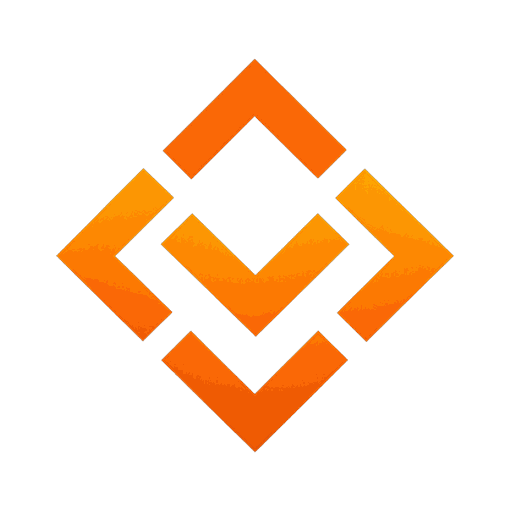
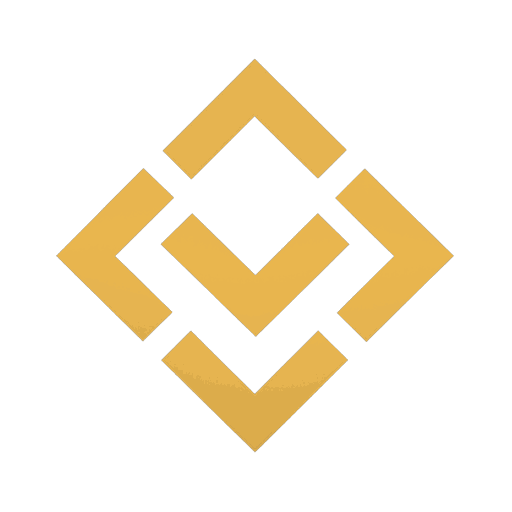
fix: Madarek parity completion — gold raster identity, prefers-contrast, full 9-family tokenization, canonical ring/radius/status
- Recolor all 11 flame-orange rasters to the Madarek night/gold identity
  (logo.png nav/footer, favicon-32, apple-touch-icon, icon-96/192/512,
  icon-512-maskable, multi-size favicon.ico, og-smartlink.jpg + product
  screenshots smart-bot/smart-menu.jpg) — verified 0 flame pixels remain
  (bright saturated hue 8-45deg window; legal gold/copper/peach all s<=0.78)
- Port prefers-contrast: more from madarek tokens.css L964-1005:
  elev-1..5 collapse to solid rings, glass goes solid (--card),
  borders strengthen — adapted to this repo's token names/structure
- Complete the 9 pastel families: add sky/yellow/rose/sand/grey triads
  (bg/ink/deep) in both dark :root and .light
- Canonical fixes: dark --ring #C9962F -> #E9B44C (gold); @theme radius
  aliases sm/lg/xl 8/20/28 -> 8/12/16
- Light status: restore canonical base values #4FA66D/#D6A330/#DD6E78
  (+ --info #5C8FCE) with -ink text companions in both themes; contact
  form status TEXT moves to -ink variants (AA in light mode preserved)
- global-error.tsx: #f5f5f7 -> Madarek sand ink #F2EFE6
- hero ambient blob: oklch hue 45 (flame band 43-57) -> gold hue 81

Build: npx next build PASS (13 routes); braces 178/178 balanced; eslint clean

diff --git a/src/app/styles.css b/src/app/styles.css
@@ -156,12 +156,14 @@
   --color-primary: var(--primary);
   --color-primary-text: var(--primary-text);
 
-  /* Radii already sit on the Madarek "Notion-soft" ladder (§1.2):
-     8 = --r-sm · 20 = --r-2xl · 28 = --r-3xl. The full 6/8/10/12/16/
-     20/28 ladder is declared as --r-* in :root below. */
+  /* Radii on the Madarek "Notion-soft" ladder (§1.2), CANONICAL
+     aliases: sm 8 = --r-sm · lg 12 = --r-lg · xl 16 = --r-xl. The full
+     6/8/10/12/16/20/28 ladder is declared as --r-* in :root below; the
+     former 20/28 steps stay reachable as rounded-[20px]/[28px]
+     arbitrary values and via --r-2xl/--r-3xl. */
   --radius-sm: 8px;
-  --radius-lg: 20px;
-  --radius-xl: 28px;
+  --radius-lg: 12px;
+  --radius-xl: 16px;
 
   /* m15: exact Madarek --ease-out (§4.2) — the exponential settle.
      (The pre-existing value 0.2,1 was a near-identical hand-tune.) */
@@ -201,21 +203,32 @@
      backgrounds + icon wells) — the gold at the original 15% wash. */
   --accent: rgb(233 180 76 / 0.15);
   --muted-foreground: #C3C8DC;
-  /* --destructive/--success/--warning = the Madarek -ink status values
-     (§1.6) — these tokens render TEXT, so the fill/stroke values stay
-     out: danger-ink #F0938F etc. The contact form derives its tinted
-     boxes via oklch(from …) so they follow automatically. */
+  /* Status tokens — see the family comment at --success below: base =
+     fill/stroke duty; -ink = text-grade variant. */
   --destructive: #F0938F;
+  --destructive-ink: #F0938F;
   /* r13 (a11y audit 1.4.11) recipe kept: a mixed border clears 3:1 in
      both themes — now mixing Madarek ink + Madarek card. */
   --input-border: color-mix(in oklab, var(--muted-foreground) 70%, var(--card));
   --border: #1B2444;
   --border-strong: #263052;
-  /* --ring = Madarek --state-focus-ring-color = --accent-strong dark
-     (§4.5, 7.87:1). Also tints the feature-card hover hairline. */
-  --ring: #C9962F;
+  /* --ring = Madarek dark focus ring: the gold accent itself #E9B44C
+     (§4.5, 10.39:1 on night — canonical dark value; strong gold #C9962F
+     stays on --accent-strong). Also tints the feature-card hover
+     hairline. */
+  --ring: #E9B44C;
+  /* --destructive/--success/--warning/--info = Madarek status BASE
+     values (§1.6 dark = the family -ink hues). Companions -ink = the
+     canonical text-grade variant (dark: identical to base; light theme
+     carries the family -deep) so small status TEXT keeps AA in both
+     modes while base keeps fill/stroke duty (showcase traffic-light
+     dots, input error border, oklch washes). */
   --success: #7FD39A;
+  --success-ink: #7FD39A;
   --warning: #ECC97D;
+  --warning-ink: #ECC97D;
+  --info: #8FBBF2;
+  --info-ink: #8FBBF2;
 
   /* ── Madarek accent family (§1.5 dark column), exact ── */
   --accent-solid: #E9B44C;
@@ -259,10 +272,18 @@
   --gradient-text-mid: #E9B44C;
   --gradient-text-end: #F5D48A;
 
-  /* ── Pastel section families consumed here (§1.4 dark column) ── */
+  /* ── Pastel section families (§1.4 dark column) — the full canonical
+     9: peach/lavender/mint consumed by service gradients today; sky/
+     yellow/rose/sand/grey ride the same bg/ink/deep triad pattern for
+     section parity with Madarek (status bases resolve to them). ── */
   --c-peach-bg: #2C1A16;  --c-peach-ink: #F2A07F;  --c-peach-deep: #FCD9C4;
   --c-lavender-bg: #221B3A;  --c-lavender-ink: #B7A0F4;  --c-lavender-deep: #DCD2F9;
   --c-mint-bg: #0F241C;  --c-mint-ink: #7FD39A;  --c-mint-deep: #C9EAD3;
+  --c-sky-bg: #14213A;  --c-sky-ink: #8FBBF2;  --c-sky-deep: #C9DCEE;
+  --c-yellow-bg: #2C2410;  --c-yellow-ink: #ECC97D;  --c-yellow-deep: #F8E5B5;
+  --c-rose-bg: #2C1620;  --c-rose-ink: #F0938F;  --c-rose-deep: #FACDD2;
+  --c-sand-bg: #241F14;  --c-sand-ink: #D9C18C;  --c-sand-deep: #EFE2C5;
+  --c-grey-bg: #161D33;  --c-grey-ink: #A9B0C8;  --c-grey-deep: #D5DAE8;
   --c-copper-bg: #2C2312;  --c-copper-ink: #E9B44C;  --c-copper-deep: #F5D48A;
 
   /* ── Radius ladder — Madarek "Notion-soft" (§1.2) ── */
@@ -325,15 +346,22 @@
   /* Copper wash at the original 12% (Smart-Link wash semantics). */
   --accent: rgb(181 116 56 / 0.12);
   --muted-foreground: #4F4D48;
-  --destructive: #6B2128;
+  /* Status base = canonical §2.6 light values (family -ink hues —
+     fills/strokes/dots); -ink companions = family -deep for TEXT. */
+  --destructive: #DD6E78;
+  --destructive-ink: #6B2128;
   --input-border: color-mix(in oklab, var(--muted-foreground) 80%, var(--card));
   --border: #E9E7E2;
   --border-strong: #D9D6D0;
   /* --ring = Madarek --state-focus-ring-color light = --accent-strong
      #5C3416 (10.29:1) — the AA focus ring Madarek pins. */
   --ring: #5C3416;
-  --success: #1F4F30;
-  --warning: #6B4C0B;
+  --success: #4FA66D;
+  --success-ink: #1F4F30;
+  --warning: #D6A330;
+  --warning-ink: #6B4C0B;
+  --info: #5C8FCE;
+  --info-ink: #1F3D63;
 
   /* ── Madarek accent family (§1.5 light column), exact ── */
   --accent-solid: #B57438;
@@ -375,10 +403,15 @@
   --gradient-text-mid: #B57438;
   --gradient-text-end: #9A5F25;
 
-  /* ── Pastel section families (§1.4 light column) ── */
+  /* ── Pastel section families (§1.4 light column) — full canonical 9 ── */
   --c-peach-bg: #FFE9DC;  --c-peach-ink: #E07856;  --c-peach-deep: #6B2D1A;
   --c-lavender-bg: #ECE6FA;  --c-lavender-ink: #8A6FE0;  --c-lavender-deep: #3F2D7A;
   --c-mint-bg: #DCF1E2;  --c-mint-ink: #4FA66D;  --c-mint-deep: #1F4F30;
+  --c-sky-bg: #DDEBF7;  --c-sky-ink: #5C8FCE;  --c-sky-deep: #1F3D63;
+  --c-yellow-bg: #FCF1CD;  --c-yellow-ink: #D6A330;  --c-yellow-deep: #6B4C0B;
+  --c-rose-bg: #FCE0E2;  --c-rose-ink: #DD6E78;  --c-rose-deep: #6B2128;
+  --c-sand-bg: #F1ECDF;  --c-sand-ink: #B59868;  --c-sand-deep: #5A4623;
+  --c-grey-bg: #EFECE7;  --c-grey-ink: #6B665E;  --c-grey-deep: #2D2A24;
   --c-copper-bg: #F4E4D2;  --c-copper-ink: #B57438;  --c-copper-deep: #5C3416;
 
   /* ── Shadows + elevation ladder (§1.9 light: soft two-layer). ── */
@@ -870,6 +903,44 @@
   }
 }
 
+/* ── Increased contrast (prefers-contrast: more) ── Madarek tokens.css
+   prefers-contrast port: elevation shadows collapse to SOLID RINGS,
+   glass surfaces go solid (no translucent fills), and hairlines/
+   borders strengthen. Token names adapted to the Smart-Link bridge:
+   --card is the surface role (Madarek --surface); --glass-bg-strong is
+   additionally solidified (0.92-alpha glass has no high-contrast
+   mode). Madarek's --rule/--surface-border/--surface-divider/
+   --ill-shadow lines are dropped — zero consumers exist here — and so
+   is the .illustration stroke rule (no illustration system in this
+   repo). Dark rides :root:not(.light), light rides .light — the same
+   split the token bridge itself uses. */
+@media (prefers-contrast: more) {
+  :root:not(.light) {
+    --elev-1: 0 0 0 1px rgba(255, 255, 255, 0.36);
+    --elev-2: 0 0 0 1.5px rgba(255, 255, 255, 0.44);
+    --elev-3: 0 0 0 2px rgba(255, 255, 255, 0.52);
+    --elev-4: 0 0 0 2.5px rgba(255, 255, 255, 0.60);
+    --elev-5: 0 0 0 3px rgba(255, 255, 255, 0.68);
+    --glass-bg: var(--card);
+    --glass-bg-strong: var(--card);
+    --glass-border: rgba(255, 255, 255, 0.36);
+    --border: rgba(255, 255, 255, 0.48);
+    --border-strong: rgba(255, 255, 255, 0.64);
+  }
+  .light {
+    --elev-1: 0 0 0 1px rgba(0, 0, 0, 0.32);
+    --elev-2: 0 0 0 1.5px rgba(0, 0, 0, 0.40);
+    --elev-3: 0 0 0 2px rgba(0, 0, 0, 0.48);
+    --elev-4: 0 0 0 2.5px rgba(0, 0, 0, 0.56);
+    --elev-5: 0 0 0 3px rgba(0, 0, 0, 0.64);
+    --glass-bg: var(--card);
+    --glass-bg-strong: var(--card);
+    --glass-border: rgba(0, 0, 0, 0.32);
+    --border: rgba(0, 0, 0, 0.42);
+    --border-strong: rgba(0, 0, 0, 0.60);
+  }
+}
+
 /* ═══════════════════════════════════════════════════════════════════
    m15 — MADAREK PATTERN BRIDGE (component alignment)
    Curated from refs/madarek-reference.md for the components Smart-Link
@@ -961,7 +1032,8 @@ h1, h2, h3, h4, h5, h6 {
 /* 6 ── Input focus halo (§5.3) ───────────────────────────────────────
    The contact form already carries the 16px iOS zoom floor (r13) and a
    2px --ring halo via utilities; the token bridge points --ring at the
-   Madarek --accent-strong values (10.29:1 light / 7.87:1 dark), which
-   completes the §4.5 input-focus recipe. Nothing further to add —
-   documented here so the pattern's home is findable. */
+   Madarek canonical focus values (light copper-deep #5C3416 10.29:1 ·
+   dark gold #E9B44C 10.39:1), which completes the §4.5 input-focus
+   recipe. Nothing further to add — documented here so the pattern's
+   home is findable. */
 

diff --git a/src/components/contact-form.tsx b/src/components/contact-form.tsx
@@ -174,7 +174,7 @@ export function ContactForm() {
             placeholder="اسمك"
           />
           {fieldErrors.name && (
-            <p id="name-error" role="alert" className="text-xs mt-1.5 text-[var(--destructive)]">{fieldErrors.name}</p>
+            <p id="name-error" role="alert" className="text-xs mt-1.5 text-[var(--destructive-ink)]">{fieldErrors.name}</p>
           )}
         </div>
         <div>
@@ -192,7 +192,7 @@ export function ContactForm() {
             placeholder="بريدك الإلكتروني"
           />
           {fieldErrors.email && (
-            <p id="email-error" role="alert" className="text-xs mt-1.5 text-[var(--destructive)]">{fieldErrors.email}</p>
+            <p id="email-error" role="alert" className="text-xs mt-1.5 text-[var(--destructive-ink)]">{fieldErrors.email}</p>
           )}
         </div>
       </div>
@@ -228,7 +228,7 @@ export function ContactForm() {
           placeholder="اكتب رسالتك هنا…"
         />
         {fieldErrors.message && (
-          <p id="message-error" role="alert" className="text-xs mt-1.5 text-[var(--destructive)]">{fieldErrors.message}</p>
+          <p id="message-error" role="alert" className="text-xs mt-1.5 text-[var(--destructive-ink)]">{fieldErrors.message}</p>
         )}
       </div>
 
@@ -238,7 +238,10 @@ export function ContactForm() {
           tabIndex={-1}
           className="text-sm rounded-xl px-4 py-3 text-center border focus:outline-none focus-visible:ring-2 focus-visible:ring-[var(--ring)]"
           style={{
-            color: "var(--destructive)",
+            /* -ink companions (Madarek §2.6): base values are fill-grade
+               (3.0–3.2:1 on light grounds) — status TEXT needs the
+               -deep/-ink variants for AA; washes keep deriving from base. */
+            color: "var(--destructive-ink)",
             background: "oklch(from var(--destructive) l c h / 0.1)",
             borderColor: "oklch(from var(--destructive) l c h / 0.25)",
           }}
@@ -268,7 +271,7 @@ export function ContactForm() {
         <div
           className="text-sm rounded-xl px-4 py-3 text-center border flex items-center justify-center gap-2"
           style={{
-            color: "var(--success)",
+            color: "var(--success-ink)",
             background: "oklch(from var(--success) l c h / 0.1)",
             borderColor: "oklch(from var(--success) l c h / 0.25)",
           }}

diff --git a/src/components/hero-section.tsx b/src/components/hero-section.tsx
@@ -14,8 +14,12 @@ import { HeroStats } from "@/components/hero-stat"
    grid drift, floating icons (lucide SVGs render server-side). */
 
 const ambientBlobs = [
+  /* Warm accent blob rides the GOLD hue (oklch ≈ hue 81 — #E9B44C is
+     oklch(0.80 0.134 81)); the former hue-45 orange sat in the retired
+     flame band (oklch hue 43–57 ≈ #FF6607/#FF8900). Cool night-hue
+     blobs stay as-is. */
   { size: 320, x: "-5%", y: "-8%", blur: "60px", color: "oklch(0.65 0.18 250 / 0.05)", opacity: 0.03 },
-  { size: 240, x: "72%", y: "20%", blur: "50px", color: "oklch(0.6 0.15 45 / 0.04)", opacity: 0.02 },
+  { size: 240, x: "72%", y: "20%", blur: "50px", color: "oklch(0.6 0.13 81 / 0.04)", opacity: 0.02 },
   { size: 200, x: "35%", y: "55%", blur: "40px", color: "oklch(0.55 0.14 300 / 0.025)", opacity: 0.015 },
   { size: 180, x: "12%", y: "70%", blur: "35px", color: "oklch(0.6 0.12 200 / 0.02)", opacity: 0.012 },
 ]

diff --git a/src/app/global-error.tsx b/src/app/global-error.tsx
@@ -87,7 +87,7 @@ export default function GlobalError({
                 borderRadius: 12,
                 border: "1px solid rgba(255,255,255,0.14)",
                 background: "rgba(255,255,255,0.04)",
-                color: "#f5f5f7",
+                color: "#F2EFE6",
                 fontWeight: 700,
                 fontSize: 14,
                 textDecoration: "none",
